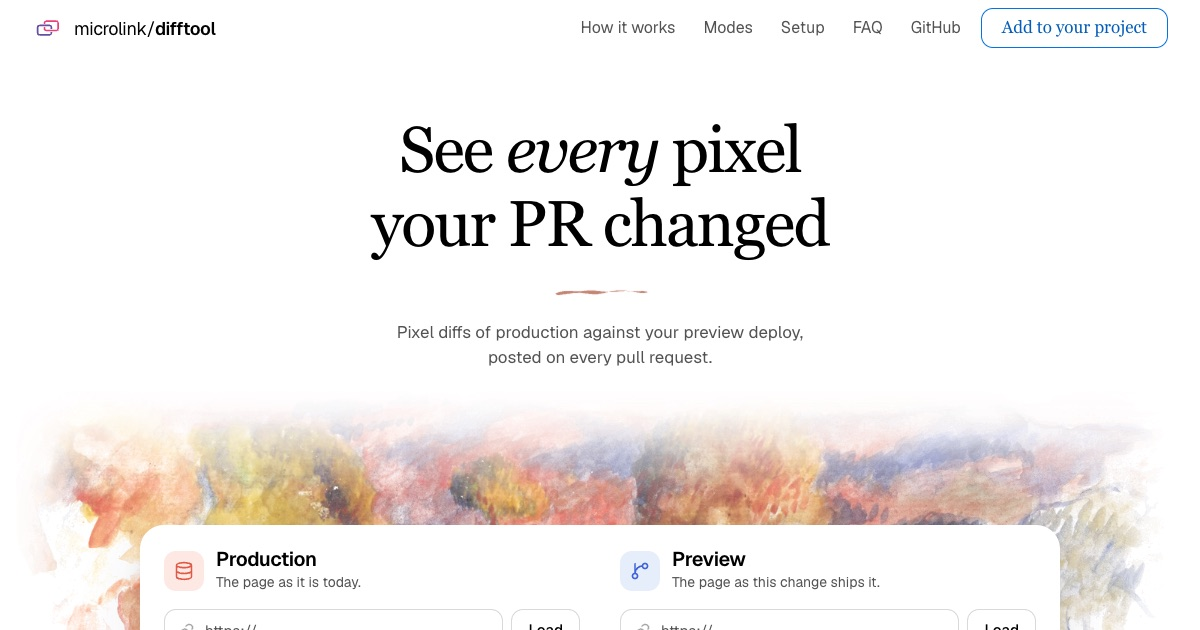
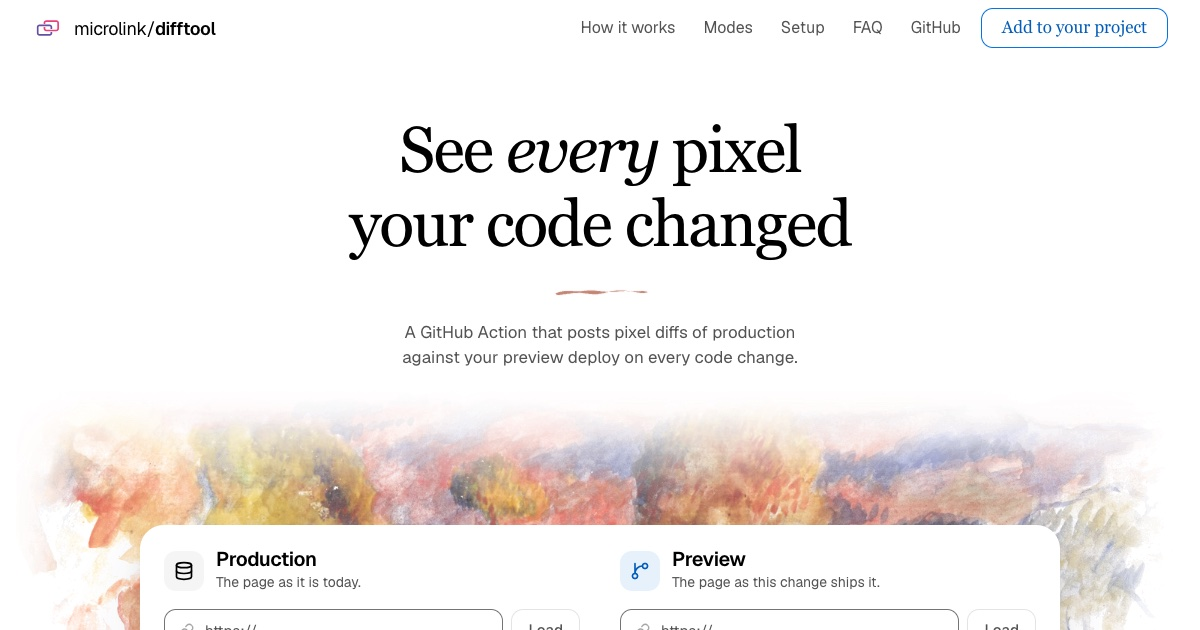
fix(web): say code change instead of pull request (#56)
* fix(web): footer says code change instead of pull request

* fix(web): say code change instead of PR across title, hero and how-it-works

Widen the hero heading to 16ch so "your code changed" stays on two lines,
and regenerate the OG image from the new hero.

---------

diff --git a/packages/web/components/landing/hero.tsx b/packages/web/components/landing/hero.tsx
@@ -22,13 +22,13 @@ export function Hero({ slots, onTryExample }: HeroProps) {
       <div style={revealIndex(0)} className="flex flex-col items-center px-page">
         <h1
           id="hero-title"
-          className="max-w-[12ch] text-balance font-serif text-[clamp(2.75rem,5.4vw,4.25rem)] font-normal leading-[1.15] tracking-[-0.03em]"
+          className="max-w-[16ch] text-balance font-serif text-[clamp(2.75rem,5.4vw,4.25rem)] font-normal leading-[1.15] tracking-[-0.03em]"
         >
-          See <em className="italic">every</em> pixel your PR changed
+          See <em className="italic">every</em> pixel your code changed
         </h1>
         <BrushStroke className="mt-6" />
         <p className="mt-5 max-w-[40ch] text-pretty text-[17px] leading-[1.5] text-muted-foreground">
-          A GitHub Action that posts pixel diffs of production against your preview deploy on every pull request.
+          A GitHub Action that posts pixel diffs of production against your preview deploy on every code change.
         </p>
       </div>
 

diff --git a/packages/web/components/landing/how-it-works.tsx b/packages/web/components/landing/how-it-works.tsx
@@ -114,7 +114,7 @@ export function HowItWorks() {
         <div className="grid gap-12 lg:grid-cols-12 lg:gap-10">
           <Reveal className="min-w-0 lg:col-span-5">
             <h2 id="how-title" className="max-w-[14ch] font-serif text-[clamp(2.25rem,4.4vw,4rem)] font-normal leading-[1] tracking-[-0.03em]">
-              Every PR gets a <em className="italic">visual</em> diff
+              Every code change gets a <em className="italic">visual</em> diff
             </h2>
             <BrushStroke className="mt-6 block" />
             <p className="mt-5 max-w-[44ch] text-[18px] leading-[1.6] text-ink-panel-muted">

diff --git a/packages/web/components/landing/site-footer.tsx b/packages/web/components/landing/site-footer.tsx
@@ -15,7 +15,7 @@ export function SiteFooter() {
     <footer className="px-page pb-8 pt-8">
       <div className="flex flex-col gap-8 sm:flex-row sm:items-start sm:justify-between">
         <p className="max-w-[40ch] text-[18px] leading-[1.6] text-muted-foreground">
-          Visual regression diffs for every pull request, built on the{" "}
+          Visual regression diffs for every code change, built on the{" "}
           <a href={MICROLINK_URL} className={TEXT_LINK_CLASS}>
             Microlink
           </a>{" "}

diff --git a/packages/web/lib/metadata.ts b/packages/web/lib/metadata.ts
@@ -1,7 +1,7 @@
 import { GITHUB_URL, MICROLINK_URL, SITE_URL } from "./site.ts"
 
 export const SITE_NAME = "difftool"
-export const TITLE = "Visual regression testing for pull requests · difftool"
+export const TITLE = "Visual regression testing for code changes · difftool"
 export const TITLE_TEMPLATE = `%s · ${SITE_NAME}`
 export const DESCRIPTION =
   "A free GitHub Action that screenshots production and your preview deploy, diffs them pixel by pixel, and comments on the PR. Or compare two images online."
